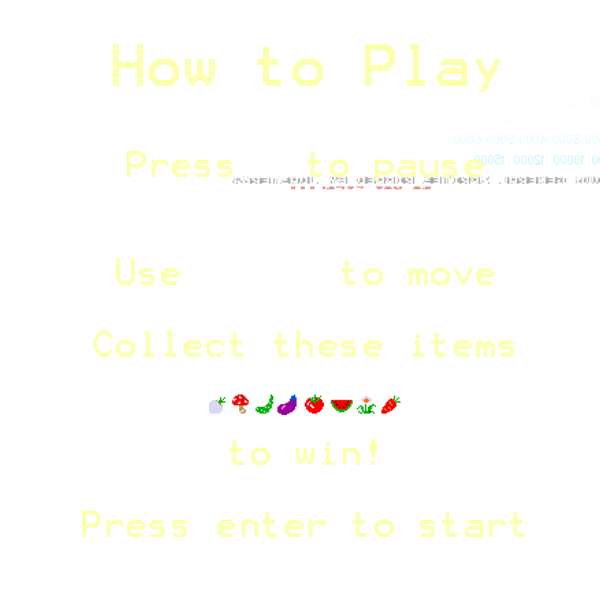
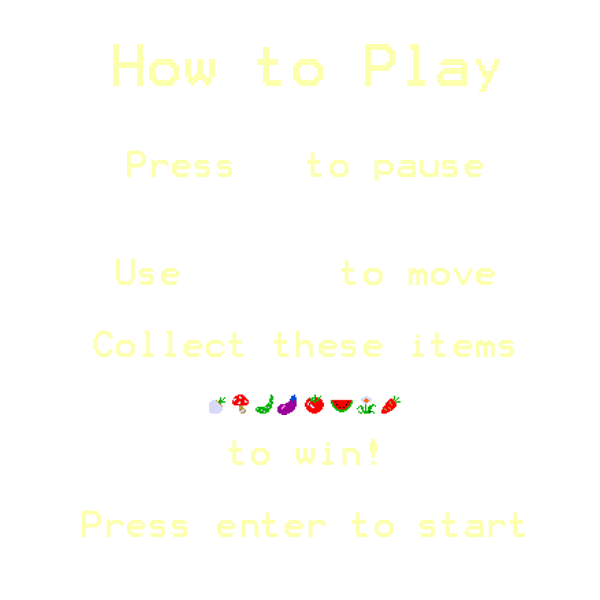
Fixed pause bug

Changed region(s): [[0.39, 0.27, 0.81, 0.33], [0.84, 0.24, 1.0, 0.33], [0.81, 0.24, 0.84, 0.27]]

diff --git a/DigDug.js b/DigDug.js
@@ -13,7 +13,7 @@ var player;
 var blockSize = 25;
 var xGridSize = 24;
 var timer;
-var menuSelector = 0;
+var menuSelector;
 // Array to keep track of the monsters
 var monstersArray = new Array();
 var rockArray = new Array();
@@ -36,6 +36,7 @@ var animatePlayerCount = 0;
 function startMainMenu() {
 	// Clear context and set menu EventListeners and draw menu
 	mode = "menu";
+	menuSelector = 0;
 	ctx.clearRect(0, 0, canvas.width, canvas.height);
 	canvas.addEventListener('keydown', inMenuKeyDown, false);
 
@@ -518,6 +519,9 @@ function gameEnded() {
 // ********** END GAME ***********
 
 // ********** EVENT LISTENERS ***********
+var gamekeydown = function(event) { Key.onKeydown(event); };
+var gamekeyup = function(event) { Key.onKeyup(event); };
+
 
 function inMenuKeyDown(event) {
 	//keyCode 13 = enter
@@ -525,8 +529,8 @@ function inMenuKeyDown(event) {
 		if(event.keyCode === 13) {
 			clearInterval(intervalId);
 			startGame();
-			canvas.addEventListener('keydown', function(event) { Key.onKeydown(event); }, false);
-			canvas.addEventListener('keyup', function(event) { Key.onKeyup(event); }, false);
+			canvas.addEventListener('keydown', gamekeydown, false);
+			canvas.addEventListener('keyup', gamekeyup, false);
 			canvas.removeEventListener('keydown', inMenuKeyDown, false);
 		}
 		else if(event.keyCode === Key.UP || event.keyCode === Key.DOWN){
@@ -565,15 +569,16 @@ var Key = {
 		// If q is pressed while pause menu, then quit
 		if (event.keyCode === 81 && mode === "pause") {
 			overlay = [0000, 0000, 0000, 0000, 0000, 0000, 0000, 0000, 0000, 0000, 0000, 0000, 0000, 0000, 0000, 0000, 0000, 0000, 0000, 0000, 0000, 0000, 0000, 0000, 0000, 0000, 0000, 0000, 0000, 0000, 0000, 0000, 0000, 0000, 0000, 0000, 0000, 0000, 0000, 0000, 0000, 0000, 0000, 0000, 0000, 0000, 0000, 0000, 0000, 0000, 0000, 0000, 0000, 0000, 0000, 0000, 0000, 0000, 0000, 0000, 0000, 0000, 0000, 0000, 0000, 0000, 0000, 0000, 0000, 0000, 0000, 0000, 0000, 0000, 0000, 0000, 0000, 0000, 0000, 0000, 0000, 0000, 0000, 0000, 0000, 0000, 0000, 0000, 0000, 0000, 0000, 0000, 0000, 0000, 0000, 0000, 0000, 0000, 0000, 0000, 0000, 0000, 0000, 0000, 0000, 0000, 0000, 0000, 0000, 0000, 0000, 0000, 0000, 0000, 0000, 0000, 0000, 0000, 0000, 0000, 0000, 0000, 0000, 0000, 0000, 0000, 0000, 0000, 0000, 0000, 0000, 0000, 0000, 0000, 0000, 0000, 0000, 0000, 0000, 0000, 0000, 0000, 0000, 0000, 0000, 0000, 0000, 0000, 0000, 0000, 0000, 0000, 0000, 0000, 0000, 0000, 0000, 0000, 0000, 0000, 0000, 0000, 0000, 0000, 0000, 0000, 0000, 0000, 0000, 0000, 0000, 0000, 0000, 0000, 0000, 0000, 0000, 0000, 0000, 0000, 0000, 0000, 0000, 0000, 0000, 0000, 0000, 0000, 0000, 0000, 0000, 0000, 0000, 0000, 0000, 0000, 0000, 0000, 0000, 0000, 0000, 0000, 0000, 0000, 0000, 0000, 0000, 0000, 0000, 0000, 0000, 0000, 0000, 0000, 0000, 0000, 0000, 0000, 0000, 0000, 0000, 0000, 0000, 0000, 0000, 0000, 0000, 0000, 0000, 0000, 0000, 0000, 0000, 0000, 0000, 0000, 0000, 0000, 0000, 0000, 0000, 0000, 0000, 0000, 0000, 0000, 0000, 0000, 0000, 0000, 0000, 0000, 0000, 0000, 0000, 0000, 0000, 0000, 0000, 0000, 0000, 0000, 0000, 0000, 0000, 0000, 0000, 0000, 0000, 0000, 0000, 0000, 0000, 0000, 0000, 0000, 0000, 0000, 0000, 0000, 0000, 0000, 0000, 0000, 0000, 0000, 0000, 0000, 0000, 0000, 0000, 0000, 0000, 0000, 0000, 0000, 0000, 0000, 0000, 0000, 0000, 0000, 0000, 0000, 0000, 0000, 0000, 0000, 0000, 0000, 0000, 0000, 0000, 0000, 0000, 0000, 0000, 0000, 0000, 0000, 0000, 0000, 0000, 0000, 0000, 0000, 0000, 0000, 0000, 0000, 0000, 0000, 0000, 0000, 0000, 0000, 0000, 0000, 0000, 0000, 0000, 0000, 0000, 0000, 0000, 0000, 0000, 0000, 0000, 0000, 0000, 0000, 0000, 0000, 0000, 0000, 0000, 0000, 0000, 0000, 0000, 0000, 0000, 0000, 0000, 0000, 0000, 0000, 0000, 0000, 0000, 0000, 0000, 0000, 0000, 0000, 0000, 0000, 0000, 0000, 0000, 0000, 0000, 0000, 0000, 0000, 0000, 0000, 0000, 0000, 0000, 0000, 0000, 0000, 0000, 0000, 0000, 0000, 0000, 0000, 0000, 0000, 0000, 0000, 0000, 0000, 0000, 0000, 0000, 0000, 0000, 0000, 0000, 0000, 0000, 0000, 0000, 0000, 0000, 0000, 0000, 0000, 0000, 0000, 0000, 0000, 0000, 0000, 0000, 0000, 0000, 0000, 0000, 0000, 0000, 0000, 0000, 0000, 0000, 0000, 0000, 0000, 0000, 0000, 0000, 0000, 0000, 0000, 0000, 0000, 0000, 0000, 0000, 0000, 0000, 0000, 0000, 0000, 0000, 0000, 0000, 0000, 0000, 0000, 0000, 0000, 0000, 0000, 0000, 0000, 0000, 0000, 0000, 0000, 0000, 0000, 0000, 0000, 0000, 0000, 0000, 0000, 0000, 0000, 0000, 0000, 0000, 0000, 0000, 0000, 0000, 0000, 0000, 0000, 0000, 0000, 0000, 0000, 0000, 0000, 0000, 0000, 0000, 0000, 0000, 0000, 0000, 0000, 0000, 0000, 0000, 0000, 0000, 0000, 0000, 0000, 0000, 0000, 0000, 0000, 0000, 0000, 0000, 0000, 0000, 0000, 0000, 0000, 0000, 0000, 0000, 0000, 0000, 0000, 0000, 0000, 0000, 0000, 0000, 0000, 0000, 0000, 0000, 0000, 0000, 0000, 0000, 0000, 0000, 0000, 0000, 0000, 0000, 0000, 0000, 0000, 0000, 0000, 0000, 0000, 0000, 0000, 0000, 0000, 0000, 0000, 0000, 0000, 0000, 0000, 0000, 0000, 0000, 0000, 0000, 0000]
+			clearInterval(intervalId);
+			clearInterval(timerInterval);
 			spriteArray = spriteArrayStatic;
 			monstersArray = new Array();
 			rockArray = new Array();
-			clearInterval(intervalId);
-			clearInterval(timerInterval);
 			itemArray = new Array();
 			cloudArray = new Array();
 			stage = 0;
-			timer =  120;
+			canvas.removeEventListener('keydown', gamekeydown, false);
+			canvas.removeEventListener('keyup', gamekeyup, false);
 			startMainMenu();
 		}
 		// Pause game if esc or 'p' is pressed
